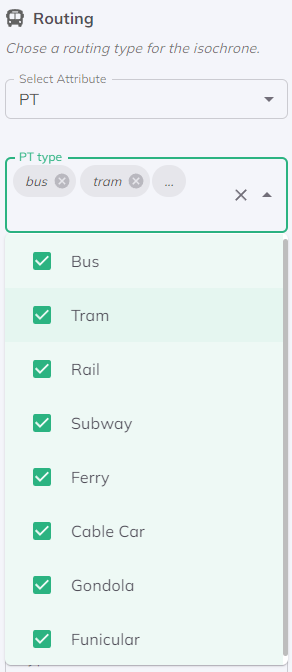
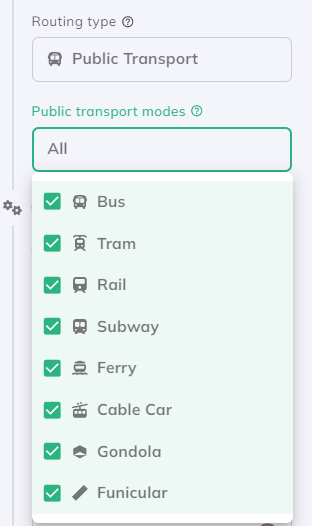
Catchments page updates

Changed region(s): [[0.0, 0.0, 0.9863, 1.0], [0.0, 0.1217, 0.0308, 0.1521]]

diff --git a/docs/toolbox/accessibility_indicators/catchments.md b/docs/toolbox/accessibility_indicators/catchments.md
@@ -1,0 +1,348 @@
+---
+sidebar_position: 1
+---
+
+import Tabs from '@theme/Tabs';
+import TabItem from '@theme/TabItem';
+import thematicIcon from "/img/toolbox/data_management/join/toolbox.webp";
+
+# Catchments
+
+**Catchment areas** show how far people can travel within a given **travel time** or **distance**. The catchment areas are calculated on the real transport network and start from one or more selected points. 
+
+## 1. Explanation
+
+**Catchment areas** show how far a person can travel from selected starting point(s) within a given travel time or a given travel distance. The catchment calculation routes on the **real transport network**. Therefore, the user can select the `routing mode` (_Walking_, _Bike_, _Pedelec_, _Transit_ or _Car_). 
+
+Catchment areas can be used as an **accessibility indicator** in a specific location or area. The catchment area gives insights into the network connectivity. Furthermore, the catchment area can be intersected with further spatial datasets, such as population and POI data. Therewith it can be assessed how many people or POIs can be reached from certain starting point(s) and thus e.g. identified which share of inhabitants has access to important destinations of daily life within a specific travel time. 
+
+![GOAT catchment example](/img/toolbox/accessibility_indicators/catchments/catchment_sample.png "GOAT catchment example")
+  
+
+:::tip Hint
+You might know this feature from our previous software versions under the terms *Single-Isochrone* and *Multi-Isochrone*. With the release of GOAT version 2.0, we combined these two indicators in the same flow and enriched it with further calculation options. 
+:::
+
+:::info 
+A **geofence** is used to calculate the catchment areas. This geofence covers most European countries, as shown in the image below.
+
+<div style={{ display: 'flex', flexDirection: 'column', alignItems: 'center' }}>
+  <img src={require('/img/toolbox/accessibility_indicators/catchments/geofence.png').default} alt="Geofence for catchment area calculation in GOAT" style={{ maxHeight: "400px", maxWidth: "400px", alignItems:'center'}}/>
+</div> 
+:::
+
+## 2. Example use cases
+
+- Which amenities can be reached from a certain point in a 15-minute walk?
+- How many inhabitants have access to a supermarket within 10 minutes cycling?
+- What proportion of the population has a GP within 500m distance?
+- How big is the catchment area of a workplace by car vs. by public transport? How many employees live within these catchment areas? 
+- How well are kindergartens currently distributed across the city? In which districts are there accessibility deficits?
+
+
+
+## 3. How to use the indicator?
+
+<div class="step">
+  <div class="step-number">1</div>
+  <div class="content">Click on <code>Toolbox</code> <img src={thematicIcon} alt="toolbox" style={{width: "25px"}}/>. </div>
+</div>
+
+<div class="step">
+  <div class="step-number">2</div>
+  <div class="content">Under the <code>Accessibility Indicators</code> menu, click on <code>Catchment Area</code>.</div>
+</div>
+
+<div class="step">
+  <div class="step-number">3</div>
+  <div class="content">Pick for which <code>Routing</code> mode you would like to calculate an isochrone.</div>
+</div>
+
+:::info coming soon
+
+Catchment calculation for **Car** coming soon. We currently implement this functionality. 🧑🏻💻
+
+:::
+
+
+<Tabs>
+  <TabItem value="walking" label="Walking (Active Mobility)" default className="tabItemBox">
+
+#### Walking
+
+Considering all paths accessible by foot.
+
+:::tip Hint
+
+For further insights into the Routing algorithm, visit [Routing/Walking](/docs/routing/walking).
+
+:::
+
+<div class="step">
+  <div class="step-number">4</div>
+  <div class="content">Pick if you like to calculate the catchment area based on <b>time</b> or <b>distance</b>.</div>
+</div>
+
+<Tabs>
+  <TabItem value="time" label="Time" default className="tabItemBox">
+
+#### Time
+
+<div class="step">
+  <div class="step-number">5</div>
+  <div class="content">Set the configurations for <code>Travel time limit</code>, <code>Travel speed</code>, and <code> Number of breaks</code>.</div>
+</div>
+
+<img src={require('/img/toolbox/accessibility_indicators/catchments/walk_config_time.png').default} alt="walking-time configurations" style={{ maxHeight: "300px", maxWidth: "300px"}}/>
+
+
+  </TabItem>
+  <TabItem value="distance" label="Distance" default className="tabItemBox">
+
+#### Distance
+
+<div class="step">
+  <div class="step-number">5</div>
+  <div class="content">Set the configurations for <code>Travel distance</code> and <code> Number of breaks</code>.</div>
+</div>
+
+<img src={require('/img/toolbox/accessibility_indicators/catchments/walk_config_distance.png').default} alt="walking-distance configurations" style={{ maxHeight: "300px", maxWidth: "300px"}}/>
+
+  </TabItem>
+
+</Tabs>
+
+  </TabItem>
+  <TabItem value="cycling" label="Cycling/Pedelec (Active Mobility)" className="tabItemBox">
+
+    
+#### Cycling/Pedelec
+
+Considering all paths accessible by bicycle. Depending on the surface, smoothness and slope of the different street segments, the speed is adjusted accordingly. For Pedelecs, slopes are considered with a lower impedance than for standard bicycles.
+
+:::tip Hint
+
+For further insights into the Routing algorithm, visit [Routing/Cycling](/docs/routing/cycling). In addition, you can check this [Publication](https://doi.org/10.1016/j.jtrangeo.2021.103080).
+
+:::
+
+<div class="step">
+  <div class="step-number">4</div>
+  <div class="content">Pick if you like to calculate the catchment area based on <b>time</b> or <b>distance</b>.</div>
+</div>
+
+<Tabs>
+  <TabItem value="time" label="Time" default className="tabItemBox">
+
+#### Time
+
+<div class="step">
+  <div class="step-number">5</div>
+  <div class="content">Set the configurations for <code>Travel time limit</code>, <code>Travel speed</code>, and <code> Number of breaks</code>.</div>
+</div>
+
+<img src={require('/img/toolbox/accessibility_indicators/catchments/walk_config_time.png').default} alt="walking-time configurations" style={{ maxHeight: "300px", maxWidth: "300px"}}/>
+
+  </TabItem>
+  <TabItem value="distance" label="Distance" default className="tabItemBox">
+
+#### Distance
+
+<div class="step">
+  <div class="step-number">5</div>
+  <div class="content">Set the configurations for <code>Travel distance</code> and <code> Number of breaks</code>.</div>
+</div>
+
+<img src={require('/img/toolbox/accessibility_indicators/catchments/walk_config_distance.png').default} alt="walking-distance configurations" style={{ maxHeight: "300px", maxWidth: "300px"}}/>
+
+  </TabItem>
+
+</Tabs>
+
+
+  </TabItem>
+  <TabItem value="public transport" label="Public Transport (PT)" className="tabItemBox">
+
+#### Public Transport (PT)
+
+In this routing mode, users can compute intermodal accessibility centered around public transport. 
+
+:::tip Hint
+
+For further insights into the Routing algorithm, visit [Routing/Public Transport](/docs/routing/public_transport).
+
+:::
+
+The following settings can be adjusted:
+
+-	``Public transport modes`` (Bus, Tram, Rail, Subway, Ferry, Cable Car, Gondola and Funicular).
+-	The ``Travel time limit`` .
+- The ``Number of breaks``.
+- The ``Day`` (Weekday, Saturday, Sunday).
+-	Time period (``from time`` and ``to time``) (0h to 24h).
+
+<div class="step">
+  <div class="step-number">4</div>
+  <div class="content">Before setting the configurations, select the <code>Public transport modes</code> you want to analyze.</div>
+</div>
+
+<div>
+  <img src={require('/img/toolbox/accessibility_indicators/catchments/pt_type.png').default} alt="Public Transport Modes in GOAT" style={{ maxHeight: "400px", maxWidth: "400px", objectFit: "cover"}}/>
+</div>
+
+
+<div class="step">
+  <div class="step-number">5</div>
+  <div class="content">Set the configurations.</div>
+</div>
+
+<img src={require('/img/toolbox/accessibility_indicators/catchments/pt_config.png').default} alt="Public Transport Configurations" style={{ maxHeight: "400px", maxWidth: "400px"}}/>
+
+  </TabItem>
+</Tabs>
+
+<div class="step">
+  <div class="step-number">6</div>
+  <div class="content">Choose how you like to define the starting point(s) of the isochrone under <code>Starting</code> menu.</div>
+</div>
+
+<Tabs>
+  <TabItem value="Select on Map" label="Select on Map" default className="tabItemBox">
+
+ #### Select on Map
+
+<div class="step">
+  <div class="step-number">7</div>
+  <div class="content">Click on <code>Select on map</code>. Select the starting point(s) by clicking on the respective location(s) in the map. You can add <b>as many starting points</b> as you like.</div>
+</div>
+
+
+  </TabItem>
+  <TabItem value="Select From Layer" label="Select From Layer" className="tabItemBox">
+
+ #### Select From Layer
+
+ <div class="step">
+  <div class="step-number">7</div>
+  <div class="content">Select the <code>Point layer</code> which you like to use as starting points. You can add <b>as many starting points</b> as you like.</div>
+</div>
+
+
+  </TabItem>
+</Tabs>
+
+### Advanced Configurations
+
+<div class="step">
+  <div class="step-number">8</div>
+  <div class="content">Select the <code>Routing type</code> you like to calculate.</div>
+</div>
+
+<div class="step">
+  <div class="step-number">9</div>
+  <div class="content">Click on <b>options button</b> <img src={require('/img/map/styling/options_icon.png').default} alt="Options Icon" style={{ maxHeight: "25px", maxWidth: "25px", objectFit: "cover"}}/>. When you click on <code> Catchment area shape</code>, you can choose between <b>Polygon (for active mobility or public transport)</b>, <b>Network (for active mobility)</b> and <b>Rectangular Grid (for active mobility or public transport)</b>.</div>
+</div>
+
+<Tabs>
+  <TabItem value="Polygon" label="Polygon" default className="tabItemBox">
+
+ #### Polygon
+- It is the geometric representation of the isochrone.
+- Provides an easy-to-understand visualization of the “catchment area”.
+- One polygon is produced for each “step”
+
+<img src={require('/img/toolbox/accessibility_indicators/catchments/pt_polygon.png').default} alt="Catchment Area Shape (Polygon) Public Transport in GOAT" style={{ maxHeight: "auto", maxWidth: "auto"}}/>
+
+:::tip NOTE
+
+If you enable **Polygon Difference**, only the "incremental" (or differential) polygon will be created for each step, but if you disable **Polygon Difference**, a "full" polygon will be created for each step (including the areas covered by all previous steps).
+
+:::
+
+  </TabItem>
+  <TabItem value="Network" label="Network" className="tabItemBox">
+
+ #### Network
+- It is a “street level” representation of the isochrone.
+- Enables easy correlation to actual streets and their accessibility within the catchment area.
+- Fine-grained detail compared to the other isochrone types.
+
+<img src={require('/img/toolbox/accessibility_indicators/catchments/pt_network.png').default} alt="Catchment Area Shape (Network) Public Transport in GOAT" style={{ maxHeight: "auto", maxWidth: "auto"}}/>
+
+  </TabItem>
+  <TabItem value="Rectangular Grid" label="Rectangular Grid" className="tabItemBox">
+
+#### Rectangular Grid
+- It is a grid cell-based representation of the isochrone.
+- Appears similar to a “heatmap” visualization, however, differs conceptually & computationally (this represents egress from a specified origin to various other locations while heatmaps represent access from various locations to a specified destination).
+
+<img src={require('/img/toolbox/accessibility_indicators/catchments/pt_grid.png').default} alt="Catchment Area Shape (Grid) Public Transport in GOAT" style={{ maxHeight: "auto", maxWidth: "auto"}}/>
+
+  </TabItem>
+</Tabs>
+
+
+<div class="step">
+  <div class="step-number">10</div>
+  <div class="content">Click on <code>Run</code>. This starts the calculation of the <b>catchment areas</b> from the selected starting point(s).</div>
+</div>
+
+:::tip Hint
+
+Depending on the chosen settings, the calculation might take some minutes. The [status bar](../../workspace/home#status-bar) shows the current progress.
+
+:::
+
+<div class="step">
+  <div class="step-number">11</div>
+  <div class="content">As soon as the calculation process is finished, the resulting layer will be added to the map.</div>
+</div>
+
+![Catchment Area Calculation Result in GOAT](/img/toolbox/accessibility_indicators/catchments/catchment_result.png "Catchment Area Calculation Result in GOAT")
+
+:::tip Tip
+Want to style your catchment areas and create nice looking maps? See [Styling](/docs/map/layer_design/styling).
+:::
+
+## 4. Technical details
+
+Catchment areas are **isolines** connecting all points that can be reached from one or more starting points within a certain time interval (called *isochrones*) or distance (called *isodistance*). Depending on the chosen travel mode, the according transport networks are used for the [routing](/docs/routing/walking.md). 
+
+The catchment areas are dynamically created in the front end based on a travel time/distance grid. Therefore, catchment areas can be created fast and for different intervals on the fly.
+
+### Scientific background
+
+From the scientific background, catchments are _contour-based measures_ (also known as _cumulative opportunities_). They are valued for their **easily interpretable results** ([Geurs and van Eck 2001](isochrones#6-references); [Albacete 2016](isochrones#6-references)), but have the drawback of not distinguishing between different travel times within the **cut-off range** ([Bertolini, le Clercq, and Kapoen 2005](isochrones#6-references)), as it is done by [heatmaps](/docs/toolbox/accessibility_indicators/heatmap_closest_facilities.md).
+
+### Visualization 
+
+The catchment shape is derived from the routing grid using the [Marching square contour line algorithm](https://en.wikipedia.org/wiki/Marching_squares "Wikipedia: Marching Squares"), a computer graphics algorithm that can generate two-dimensional contour lines from a rectangular array of values ([de Queiroz Neto et al. 2016](isochrones#6-references)). This algorithm transforms the grid from a 2D array to a shape to visualize or analyzed. An illustration of 2D image processing is shown in the figure. 
+
+<div style={{ display: 'flex', flexDirection: 'column', alignItems: 'center' }}>
+  <img src="https://plan4better.de/images/docs/technical_documentation/isochrone/wiki.webp" width="1000px" alt="marching square" style={{ width: "1000px", height: "400px", maxHeight: "400px", maxWidth: "400px", objectFit: "contain"}}/>
+</div> 
+
+## 5. Further readings
+
+Further insights into the catchment calculation and its scientific background can be found in this [publication](https://doi.org/10.1016/j.jtrangeo.2021.103080).
+
+## 6. References
+
+Albacete, Xavier. 2016. “Evaluation and Improvements of Contour-Based Accessibility Measures.” url: https://dspace.uef.fi/bitstream/handle/123456789/16857/urn_isbn_978-952-61-2103-1.pdf?sequence=1&isAllowed=y 
+
+Bertolini, Luca, F. le Clercq, and L. Kapoen. 2005. “Sustainable Accessibility: A Conceptual Framework to Integrate Transport and Land Use Plan-Making. Two Test-Applications in the Netherlands and a Reflection on the Way Forward.” Transport Policy 12 (3): 207–20. https://doi.org/10.1016/j.tranpol.2005.01.006.
+
+J. F. de Queiroz Neto, E. M. d. Santos, and C. A. Vidal. “MSKDE - Using
+Marching Squares to Quickly Make High Quality Crime Hotspot Maps”. en.
+In: 2016 29th SIBGRAPI Conference on Graphics, Patterns and Images (SIBGRAPI).
+Sao Paulo, Brazil: IEEE, Oct. 2016, pp. 305–312. isbn: 978-1-5090-3568-7. doi:
+10.1109/SIBGRAPI.2016.049. url: https://ieeexplore.ieee.org/document/
+7813048/
+
+https://fr.wikipedia.org/wiki/Marching_squares#/media/Fichier:Marching_Squares_Isoline.svg
+
+Majk Shkurti, "Spatio-temporal public transport accessibility analysis and benchmarking in an interactive WebGIS", Sep 2022. url: https://www.researchgate.net/publication/365790691_Spatio-temporal_public_transport_accessibility_analysis_and_benchmarking_in_an_interactive_WebGIS 
+
+Matthew Wigginton Conway, Andrew Byrd, Marco Van Der Linden. "Evidence-Based Transit and Land Use Sketch Planning Using Interactive Accessibility Methods on Combined Schedule and Headway-Based Networks", 2017. url: https://journals.sagepub.com/doi/10.3141/2653-06
+
+Geurs, Karst T., and Ritsema van Eck. 2001. “Accessibility Measures: Review and Applications.” RIVM Report 408505 006. url: https://rivm.openrepository.com/handle/10029/259808
